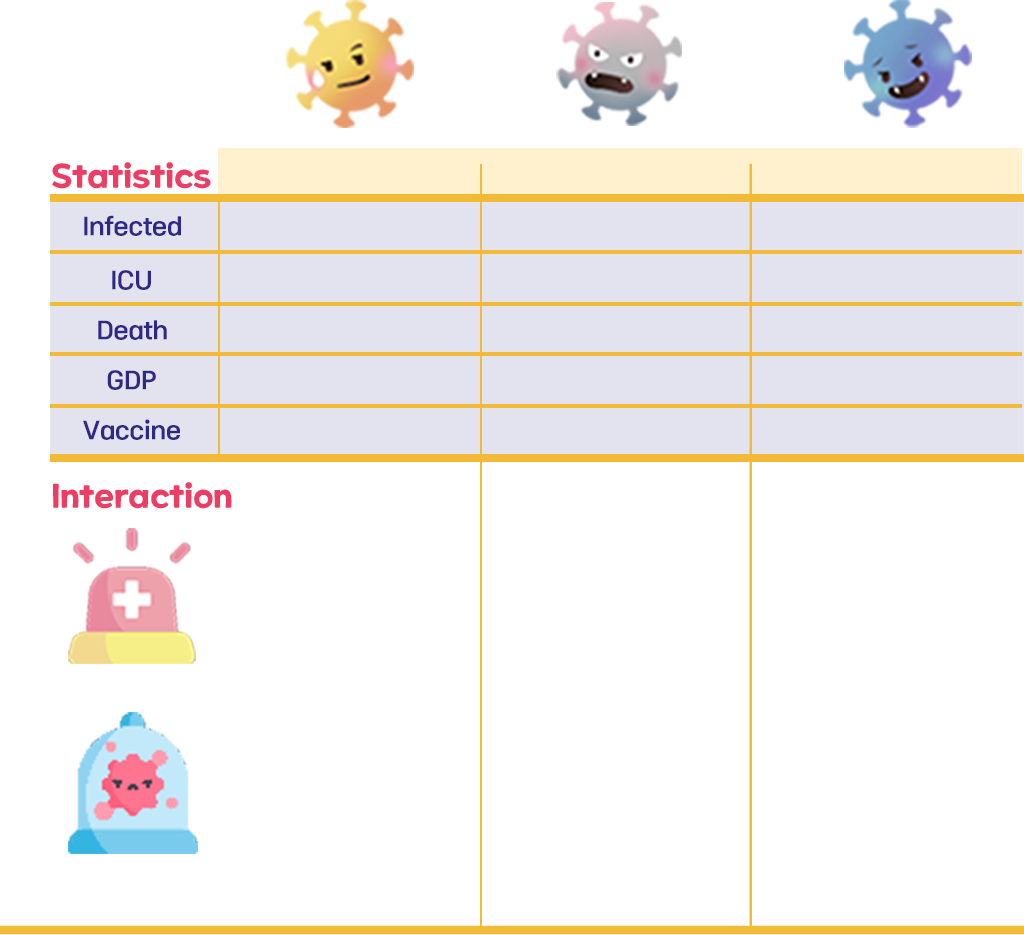
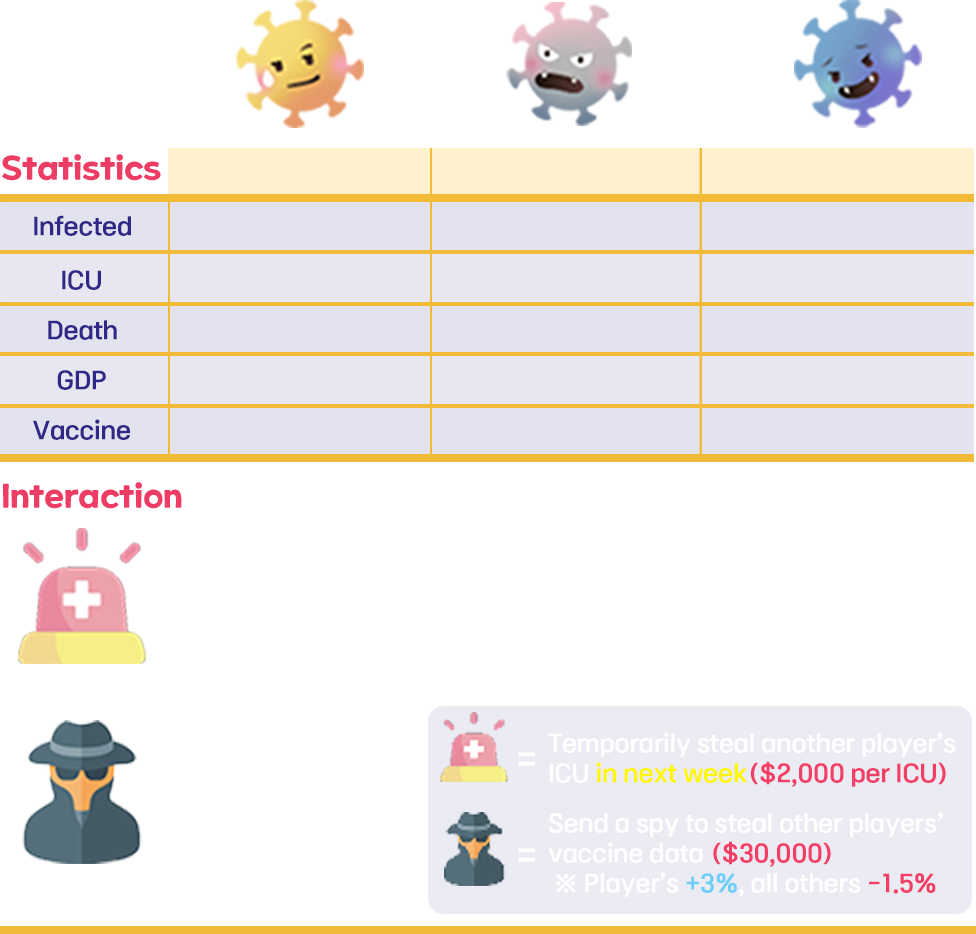
.

diff --git a/ko-kr-beta/main_game.js b/ko-kr-beta/main_game.js
@@ -2,6 +2,7 @@
 // noinspection HttpUrlsUsage
 const REQUEST_ID = "https://chickenberry.ddns.net:8192/FTC";
 var ONLINE = true;
+var createNewInfectious = false;
 
 var run, chart_data, running_time, chart_param;
 var stat = {
@@ -29,7 +30,7 @@ var age_policy_data_fix = [
 ];
 var multiplayer_policy = [
     {policyNo: 1, name: "ICU_control", value: [{target: "student01", num: 0}, {target: "student02", num: 0}, {target: "student03", num: 0}]},
-    {policyNo: 2, name: "transfer_control", value: [{target: "student01", num: 0}, {target: "student02", num: 0}, {target: "student03", num: 0}]}
+    {policyNo: 2, name: "vaccine_control", value: [{target: "student01", num: 0}, {target: "student02", num: 0}, {target: "student03", num: 0}]}
 ];
 
 var received_multiplayer_policy = {"action01": 0, "action02": 0};
@@ -42,7 +43,7 @@ var tick = 1000 / 60;
 var w; 
 var receive = false, receive_time = 0;
 w = new Worker("worker_game.js");
-var vaccine_research;
+var vaccine_research, total_vaccine_research;
 
 function getVirus(virusInfo) {
     d3.select("select.virus.selection").selectAll("option")
@@ -50,7 +51,7 @@ function getVirus(virusInfo) {
         .enter()
         .append("option")
         .attr("value",function(e) {return e.name;})
-        .text(function(e) {if (e.name === "Attack") {return e.name;} else {return "Defense: " + e.name;}});
+        .text(function(e) {return e.name});
     selectVirus(virusInfo.data[0].name, virusInfo);
     $("#popup_init").fadeIn();
 }
@@ -231,16 +232,7 @@ function updateSim(param, node_data, time) {
         chart = 0;
     }
 
-    if ((vaccine_research > 100 || chart_data.length > 365 ||
-        (node_data.filter(e =>
-            e.state === state.S ||
-            e.state === state.R1 ||
-            e.state === state.R2
-            ).length === node_data.length &&
-        node_data.filter(e =>
-            e.state === state.R1 ||
-            e.state === state.R2
-        ).length > 0)) &&
+    if ((total_vaccine_research > 100 || chart_data.length > 365) &&
         NETWORK.USERLIST.find(std => std.studentID === NETWORK.STUDENT_ID)
             .status !== "FINISHED") gameOver();
     let isGameOverCOMP = (NETWORK.TEAMTYPE === "COMP" &&
@@ -664,6 +656,10 @@ function start_simulation() {
     $(".table_sliders > td > input").val(1);
     $(".table_floats > td > output").val(parseFloat("1.00").toFixed(2));
     $("output.budget_now").val(0);
+    received_multiplayer_policy["action01"] = 0;
+    received_multiplayer_policy["action02"] = 0;
+    while (running_speed > 1) change_speed(-1);
+
     budget = 0;
     vaccine_research = 0;
     age_policy_data_fix = [
@@ -739,8 +735,8 @@ function resume_simulation () {
             (prev, curr) => prev + curr.num, 0
         ) * (NETWORK.TEAMTYPE === "COMP" ? 2000 : 0) -
         multiplayer_policy[1].value.reduce(
-            (prev, curr) => prev + curr.num, 0
-        ) * 4000;
+            (prev, curr) => Math.max(prev, curr.num), 0
+        ) * 30000;
     d3.selectAll("line.sim_board.svg_line")
         .data([{name: "upper", x1: w.param["canvas_width"] / 2, y1: w.param["canvas_height"] * (1 - line_rate) / 4, x2: w.param["canvas_width"] / 2, y2: w.param["canvas_height"] * (1 + line_rate) / 4},
             {name: "lower", x1: w.param["canvas_width"] / 2, y1: w.param["canvas_height"] * (3 - line_rate) / 4, x2: w.param["canvas_width"] / 2, y2: w.param["canvas_height"] * (3 + line_rate) / 4},
@@ -772,10 +768,6 @@ function resume_simulation () {
         area.data[1].level = age_policy_data_fix[2].active ? 3 : age_policy_data_fix[1].active ? 2 : 0;
         area.data[2].level = age_policy_data_fix[2].active ? 3 : 0;
     });
-    let weight = Math.min(Math.max(0.5, 1 - received_multiplayer_policy["action02"] * 0.05), 1.5);
-    if (weight > 1) $("output.daily.legend.rate.infectious").css("color", "red");
-    else if (weight < 1) $("output.daily.legend.rate.infectious").css("color", "blue");
-    else $("output.daily.legend.rate.infectious").css("color", "white");
     $("output.daily.legend.rate.infectious").text((Math.round(prob_calc(get_params(initParams))[0] * 100) / 100).toFixed(2));
 
     w.postMessage({type: "RESUME", data: {
@@ -784,7 +776,8 @@ function resume_simulation () {
             hospital_max: hospital_max,
             surface: surface,
             budget: budget,
-            multiplayer_policy: received_multiplayer_policy
+            multiplayer_policy: received_multiplayer_policy,
+            createNewInfectious: createNewInfectious
         }});
     w.param.hospital_max = hospital_max;
     $("#popup_weekly > .popInnerBox").off("mouseenter").off("mouseleave");
@@ -907,11 +900,11 @@ function getAction() {
     std_list.forEach((e, i) => {
         policy_msg[e.studentID] = {
             "action01": dir * multiplayer_policy[0].value[i].num,
-            "action02": dir * multiplayer_policy[1].value[i].num
+            "action02": dir * multiplayer_policy[1].value[i].num * (NETWORK.TEAMTYPE === "COOP" ? 1 : 0.5)
         };
         policy_msg[NETWORK.STUDENT_ID] = {
             "action01": -1 * dir * multiplayer_policy[0].value.reduce((prev, curr) => prev + curr.num, 0),
-            "action02": 0
+            "action02": multiplayer_policy[1].value[i].num
         };
     })
 
@@ -966,10 +959,13 @@ function weekly_report() {
     $("output.weekly_date_from").val(data_from.tick + 1);
     $("output.weekly_date_to").val(data_to.tick + 1);
     $("output.weekly_week").val(Math.round((data_to.tick + 1) / w.param.turnUnit));
+    createNewInfectious = false;
     if (Math.round((data_to.tick + 1) / w.param.turnUnit) % 4 === 1) {
         budget += Math.floor(chart_data.slice(Math.max(chart_data.length - (w.param.turnUnit * 4), 0), chart_data.length)
             .reduce((prev, curr) => prev + (curr.GDP / 4 / (chart_data.length - Math.max(chart_data.length - (w.param.turnUnit * 4), 0))), 0));
         $("output.budget_now").val(budget);
+        createNewInfectious = true;
+        console.log("Created new infectious");
         if (!auto) triggerInnerPopup("budget.gain");
     }
     toggle_week();
@@ -979,7 +975,11 @@ function weekly_report() {
             (data_to.S[9] + data_to.E1[9] + data_to.E2[9] + data_to.I1[9] + data_to.R1[9]) /
             w.param.node_num / 4 /
             (chart_data.length - Math.max(chart_data.length - (w.param.turnUnit), 0))), 0) / 200) / 100;
-    $("output.vaccine_progress").val(Math.round(vaccine_research * 10) / 10);
+
+    vaccine_research = Math.max(vaccine_research + received_multiplayer_policy["action02"] * 3, 0);
+    total_vaccine_research = NETWORK.TEAMTYPE === "COMP" ? vaccine_research :
+        Math.round(NETWORK.USERLIST.filter(student => student.status !== "OFFLINE").reduce((prev, curr) => prev + curr["STAT"]["vaccine"], 0) / NETWORK.USERLIST.filter(student => student.status !== "OFFLINE").length * 10) / 10;
+    $("output.vaccine_progress").val(Math.round(total_vaccine_research * 10) / 10);
     weekOver(
         [$("output.infectious_now").val(), $("output.infectious_total").val()],
         [$("output.hospital_now").val(), $("output.hospital_max").val()],
@@ -1195,8 +1195,8 @@ function toggle_week() {
             (prev, curr) => prev + curr.num, 0
         ) * (NETWORK.TEAMTYPE === "COMP" ? 2000 : 0) +
         multiplayer_policy[1].value.reduce(
-            (prev, curr) => prev + curr.num, 0
-        ) * 4000;
+            (prev, curr) => Math.max(prev, curr.num), 0
+        ) * 30000;
     $("output.weekly.budget_next").val(new_budget.toLocaleString("en-US", {style: "currency", currency: "USD", minimumFractionDigits: 0}));
     if (new_budget > budget) {
         $("div.weekly.area.caution").css("opacity","100%");
@@ -1412,8 +1412,8 @@ function changePolicyMultiplayer (policy, player, direction) {
             (w.param.hospital_max - chart_data[chart_data.length - 1].H2[9]) <= multiplayer_policy[policyIdx].value.reduce((prev, curr) => prev + curr.num, 0)
         ) ||
         (((NETWORK.TEAMTYPE === "COMP" && multiplayer_policy[policyIdx].name === "ICU_control") ||
-            multiplayer_policy[policyIdx].name === "transfer_control") &&
-            multiplayer_policy[policyIdx].value[targetIdx].num >= 10));
+            multiplayer_policy[policyIdx].name === "vaccine_control") &&
+            multiplayer_policy[policyIdx].value[targetIdx].num >= 1));
 
     let negative = multiplayer_policy[policyIdx].value[targetIdx].num > 0;
 
@@ -1424,13 +1424,23 @@ function changePolicyMultiplayer (policy, player, direction) {
         d3.selectAll(`div.weekly.area.actions img.decrease.action0${policy}.${player}`).attr("src", "img/button_disabled_decrease.png");
     }
 
-    if (direction > 0) {
-        if (!positive) return;
-        multiplayer_policy[policyIdx].value[targetIdx].num++;
-    } else if (direction < 0) {
-        if (!negative) return;
-        multiplayer_policy[policyIdx].value[targetIdx].num--;
-    } else return;
+    if (policy === "ICU_control") {
+        if (direction > 0) {
+            if (!positive) return;
+            multiplayer_policy[policyIdx].value[targetIdx].num++;
+        } else if (direction < 0) {
+            if (!negative) return;
+            multiplayer_policy[policyIdx].value[targetIdx].num--;
+        } else return;
+    } else {
+        if (direction > 0) {
+            if (!positive) return;
+            multiplayer_policy[policyIdx].value.forEach(pol => pol.num++);
+        } else if (direction < 0) {
+            if (!negative) return;
+            multiplayer_policy[policyIdx].value.forEach(pol => pol.num--);
+        } else return;
+    }
     getAction();
     toggle_week();
     changePolicyMultiplayer(policy, player, 0);

diff --git a/ko-kr-beta/netSocket.js b/ko-kr-beta/netSocket.js
@@ -67,6 +67,9 @@ function updateUserStatus() {
     } else {
         $("input.weekly.tab.switch.area").attr("disabled", false);
     }
+    total_vaccine_research = NETWORK.TEAMTYPE === "COMP" ? vaccine_research :
+        Math.round(NETWORK.USERLIST.filter(student => student.status !== "OFFLINE").reduce((prev, curr) => prev + curr["STAT"]["vaccine"], 0) / NETWORK.USERLIST.filter(student => student.status !== "OFFLINE").length * 10) / 10;
+    $("output.vaccine_progress").val(Math.round(total_vaccine_research * 10) / 10);
 }
 
 
@@ -149,21 +152,24 @@ socket.on("chat", function (msg) {
 });
 
 socket.on("weekOver", function (msg) {
+    $("g.actions output").css("display", "none");
     let studentIdx = NETWORK.USERLIST.findIndex(student =>
         student.studentID === msg["studentID"]);
     NETWORK.USERLIST[studentIdx]["STAT"] = msg["result"];
     NETWORK.USERLIST.filter(student => student.studentID !== NETWORK.STUDENT_ID).forEach((student, i) => {
         let studentIdx = i + 1;
         if (student.status !== "PLAYING" && student.status !== "WREADY" && student.status !== "FINISHED") {
-            $("output.student0" + studentIdx).val("");
+            $("output.student0" + studentIdx).val("").css("display", "none");
             return;
         }
+        $("output.student0" + studentIdx).css("display", "inline");
         $("output.student0" + studentIdx + ".studentName").val(student.name);
         $("output.student0" + studentIdx + ".studentStatus.infectious").val(`${student["STAT"]["infected"][0]} / ${student["STAT"]["infected"][1]}`);
         $("output.student0" + studentIdx + ".studentStatus.ICU").val(`${student["STAT"]["ICU"][0]} / ${student["STAT"]["ICU"][1]}`);
         $("output.student0" + studentIdx + ".studentStatus.death").val(`${student["STAT"]["death"][0]} / ${student["STAT"]["death"][1]}`);
         $("output.student0" + studentIdx + ".studentStatus.GDP").val(`${student["STAT"]["GDP"]}%`);
-        $("output.student0" + studentIdx + ".studentStatus.vaccine").val(student["STAT"]["vaccine"] !== "" ? `${parseFloat(student["STAT"]["vaccine"]).toFixed(2)}%` : "");
+        $("output.student0" + studentIdx + ".studentStatus.vaccine").val(student["STAT"]["vaccine"] !== "" ? `${parseFloat(NETWORK.TEAMTYPE === "COMP" ? student["STAT"]["vaccine"] : student["STAT"]["vaccine"] / NETWORK.USERLIST.filter(student => student.status !== "OFFLINE").length).toFixed(2)}%` : "");
+
     });
     updateUserStatus();
 })
@@ -204,8 +210,8 @@ function toggleReady(pos) {
                 (prev, curr) => prev + curr.num, 0
             ) * (NETWORK.TEAMTYPE === "COMP" ? 2000 : 0) -
             multiplayer_policy[1].value.reduce(
-                (prev, curr) => prev + curr.num, 0
-            ) * 4000;
+                (prev, curr) => Math.max(prev, curr.num), 0
+            ) * 30000;
         d3.selectAll("line.sim_board.svg_line")
             .data([{
                 name: "upper",
@@ -317,11 +323,11 @@ socket.on("turnStart", function (msg) {
     resume_simulation();
 
     let ICU_change = received_multiplayer_policy["action01"] + multiplayer_policy[0].value.reduce((prev, curr) => prev + curr.num, 0);
-    let transfer_change = received_multiplayer_policy["action02"];
+    let vaccine_change = received_multiplayer_policy["action02"];
     if (ICU_change !== 0)
         announcement(`Your ICU bed limit is temporarily ${ICU_change > 0 ? "expanded" : "decreased"} by ${Math.abs(ICU_change)} by your teammates!`);
-    if (transfer_change !== 0)
-        announcement(`Overall transfer rate is temporarily ${transfer_change > 0 ? "decreased" : "increased"} by ${Math.abs(transfer_change * 5)}% by your teammates!`);
+    if (vaccine_change !== 0)
+        announcement(`Your ${vaccine_change > 0 ? "team " : ""}vaccine development status was ${vaccine_change < 0 ? "decreased" : "increased"} by ${Math.abs(vaccine_change * 3)}% by your teammates!`);
 
 });
 
@@ -336,9 +342,6 @@ function weekOver(infected, ICU, death, GDP, vaccine) {
 }
 
 function gameOver() {
-    received_multiplayer_policy["action01"] = 0;
-    received_multiplayer_policy["action02"] = 0;
-
     socket.emit("gameOver");
 }
 

diff --git a/ko-kr-beta/covid_game.html b/ko-kr-beta/covid_game.html
@@ -249,14 +249,14 @@
                                     <img src="img/button_disabled_decrease.png" alt="" class="action02 student01 decrease " onclick="changePolicyMultiplayer(2, 'student01', -1)">
                                     <img src="img/button_disabled_increase.png" alt="" class="action02 student01 increase " onclick="changePolicyMultiplayer(2, 'student01', 1)">
                                 </g>
-                                <g class="actions action02 student02">
+                                <g class="actions action02 student02" style="display:none">
                                     <div class="action02 student02 status">
                                         <output class="action02 student02 status">0</output>
                                     </div>
                                     <img src="img/button_disabled_decrease.png" alt="" class="action02 student02 decrease " onclick="changePolicyMultiplayer(2, 'student02', -1)">
                                     <img src="img/button_disabled_increase.png" alt="" class="action02 student02 increase " onclick="changePolicyMultiplayer(2, 'student02', 1)">
                                 </g>
-                                <g class="actions action02 student03">
+                                <g class="actions action02 student03" style="display:none">
                                     <div class="action02 student03 status">
                                         <output class="action02 student03 status">0</output>
                                     </div>
@@ -266,9 +266,9 @@
                             </div>
                         </div>
                     </div>
-                    <div class="weekly area budget"><output class="weekly budget_next">0</output></div>
                 </div>
             </div>
+            <div class="weekly area budget"><output class="weekly budget_next">0</output></div>
             <div id="button_wrapper">
                 <img src="img/weekly_ready_inactive.png" alt="" id="button_turnReady" onclick="toggleReady('week')">
                 <div class="login userlist weekly">

diff --git a/ko-kr-beta/worker_game.js b/ko-kr-beta/worker_game.js
@@ -8,6 +8,7 @@ var running_time;
 var simulation;
 var param;
 var budget;
+var createNewInfectious = 0;
 
 onmessage = function(event){
     switch (event.data.type) {
@@ -104,7 +105,7 @@ function collision (node1, node2) {
 Transmission probability per contact
  */
 function TPC (node1) {
-    return param.TPC_base * param.age_infect[node1.age.toString()] * param.weightByPolicy;
+    return param.TPC_base * param.age_infect[node1.age.toString()];
 }
 
 function ticked() {
@@ -118,6 +119,10 @@ function ticked() {
         })
     }, this);
     simulation.nodes().forEach(node => node.dispatch.call("tick", this));
+    if (createNewInfectious > 1 && simulation.nodes().filter(node => node.state === state.S).length > 0) {
+        simulation.nodes().filter(node => node.state === state.S)[0].infected();
+        createNewInfectious = 0;
+    }
     if (Math.ceil(running_time / (param.fps * param.turnUnit)) !== Math.ceil((running_time + 1) / (param.fps * param.turnUnit))) {
         postMessage({type:"PAUSE"});
     }
@@ -201,7 +206,8 @@ function apply_policy(policy) {
     simulation.nodes().forEach(node => {
         node.param.hospital_max = Math.max(policy.hospital_max + policy.multiplayer_policy["action01"], 0);
     });
-    param.weightByPolicy = Math.min(Math.max(0.5, 1 - policy.multiplayer_policy["action02"] * 0.05), 1.5);
+
+    if (policy.createNewInfectious) createNewInfectious++;
 
     let temp = simulation.loc.get_surface(), line_rate = policy.rate;
     if (policy.surface.upper === "1") temp.push({

diff --git a/ko-kr-beta/css/style_game.css b/ko-kr-beta/css/style_game.css
@@ -230,8 +230,9 @@ div.controls > div.control > img {
 }
 div.panel_footer {
     position: absolute;
-    background-image: url("../img/main_bottom_panel.png");
+    background-image: url("../img/main_bottom_panel.png") ;
     background-repeat: no-repeat;
+    background-size: 100%;
     top: 760px;
     left: 345px;
     width: 1045px;
@@ -246,20 +247,20 @@ div.panel_output {
     text-align: center;
 }
 div.panel_output.infectious {
-    left: 129px;
+    left: 120px;
 }
 div.panel_output.hospital {
-    left: 285px;
+    left: 275px;
 }
 div.panel_output.death {
-    left: 413px;
+    left: 422px;
 }
 div.panel_output.GDP {
-    left: 580px;
+    left: 610px;
     font-size: 23px;
 }
 div.panel_output.budget {
-    left: 775px;
+    left: 795px;
 }
 
 .popup {
@@ -502,6 +503,7 @@ div.daily.legend {
 div.daily.legend img.background {
     position: absolute;
     top: 173px;
+    width: 574px;
 }
 
 div.virus.selection {
@@ -784,6 +786,10 @@ img.weekly.tab.back.age {
     left: 10px;
     width: 550px;
 }
+img.weekly.tab.back.area {
+    left: 115px;
+    width: 480px;
+}
 
 #popup_weekly .popBody {
     font-size: 16px;
@@ -1000,8 +1006,8 @@ img.policy.bed:hover {
 
 div.weekly.area.budget{
     position: absolute;
-    top: 676px;
-    left: 483px;
+    top: 713px;
+    left: 509px;
     width: 109px;
     height: 37px;
     text-align: center;
